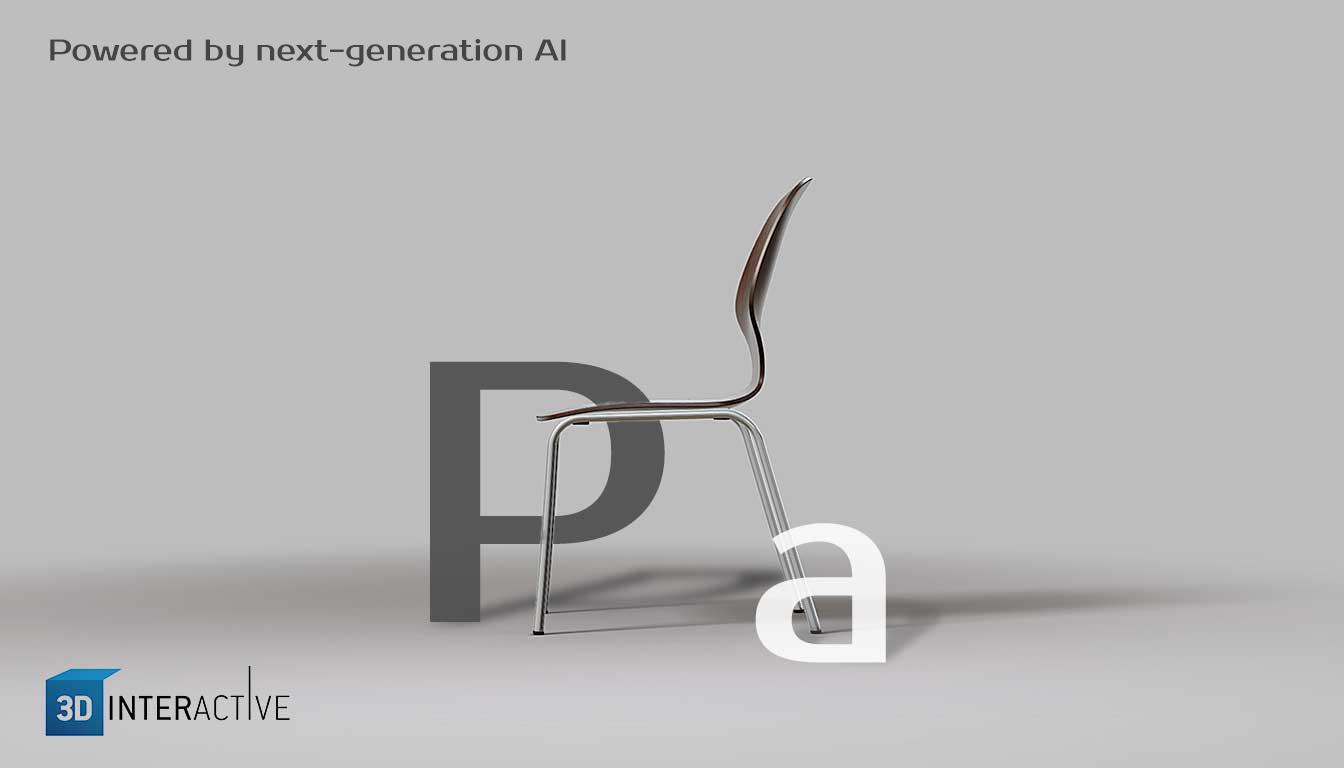
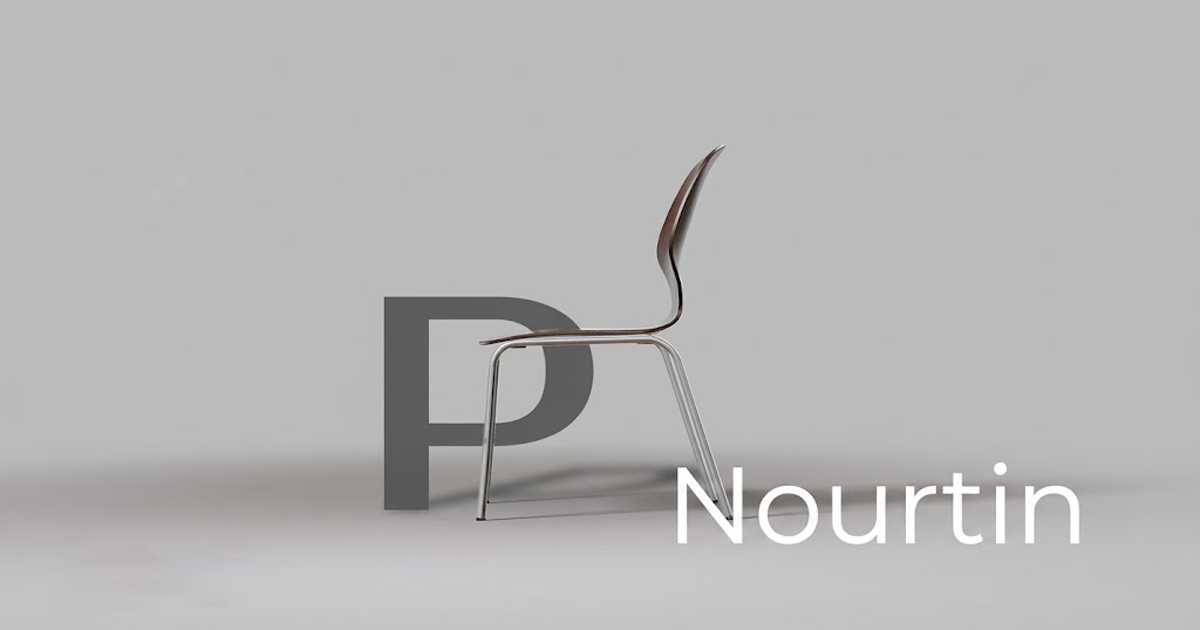
Update case study with new inspection features, recent improvements and Nourtin artwork

diff --git a/README.md b/README.md
@@ -12,7 +12,9 @@ Cinematic real-time 3D product experience built for modern brands — combining 
 ## Key Results
 
 - Cinematic product presentation directly in the browser  
-- Real-time material exploration  
+- Real-time material exploration, including a White Clay inspection mode  
+- On-model width, height, and depth dimensions with interactive product details  
+- Approximately 0.5–0.7 seconds to initial opening in the author's recent measurements; results vary by device and connection  
 - Built-in studio workflow (image & video capture)  
 - AI-powered image generation from live 3D scene  
 - Designed for modern product storytelling and digital marketing  
@@ -35,6 +37,12 @@ A premium product experience that presents objects with cinematic quality instea
 
 Users can explore materials in real time, capture visuals, and create content directly inside the browser without switching tools.
 
+The new White Clay mode presents the entire chair with a neutral finish, making its form easier to inspect. Width, height, and depth appear directly around the model, alongside interactive points that open design views, seat and frame connection details, and an assembly overview.
+
+Dimensions and detail points remain visible while White Clay is selected, even when the material panel is closed. Switching to another finish returns to the material presentation.
+
+Users can also enter and leave a staged room environment to explore the chair in context.
+
 ---
 
 ## AI Workflow
@@ -45,6 +53,8 @@ Users can explore materials in real time, capture visuals, and create content di
 The system allows users to generate new AI-based product visuals directly from the live 3D scene.
 
 This turns a single product setup into multiple creative outputs without leaving the experience.
+
+Recent improvements make generation more predictable, with clearer access feedback and better handling of cancelled, delayed, or failed requests.
 
 ---
 
@@ -61,10 +71,28 @@ The goal is to bring product presentation, interaction, and content creation int
 ## Core Experience
 
 - Cinematic product introduction and camera flow  
-- Real-time material switching  
-- Built-in studio tools for content creation  
+- Real-time material switching without reloading the chair  
+- White Clay inspection with on-model dimensions and interactive detail images  
+- Room entry and exit with smooth visual transitions  
+- Built-in studio tools for screenshots, camera previews, and video recording  
 - AI-powered visual generation  
-- Clean and modern user experience  
+- Improved mobile and landscape layouts, keyboard navigation, and panel focus  
+- Updated Nourtin branding across preview artwork and exported content  
+
+---
+
+## Latest Improvements
+
+- **Faster initial opening:** approximately 0.5–0.7 seconds in recent measurements by the author, with additional scene content loading progressively.
+- **Clearer product inspection:** White Clay mode, visible model dimensions, and interactive design and assembly details.
+- **Smoother navigation:** refined camera handling, room transitions, and controls during studio preview and recording.
+- **More reliable capture:** improved recording cleanup and resizing behavior, with consistent Nourtin branding on images and video.
+- **Better recovery:** clearer Retry and Reload actions when loading or browser graphics initialization fails.
+- **More accessible interaction:** improved keyboard access, focus handling, and controls on narrow and landscape screens.
+- **More reliable AI workflow:** improved cancellation, timeout handling, and feedback.
+- **Maintenance and quality:** removed unused code and obsolete assets, expanded project documentation, and added automated checks before deployment.
+
+These updates describe the latest project work; availability in the live demo depends on deployment.
 
 ---
 
@@ -78,7 +106,7 @@ PureNordStudio demonstrates how real-time 3D can enhance product storytelling, i
 
 ---
 
-## Business Value
+## Potential Business Value
 
 - Faster content production without external tools  
 - Reduced need for repeated photoshoots  
@@ -97,6 +125,6 @@ This approach transforms product presentation from a static display into an inte
 
 ## Scope and measurement notes
 
-This repository contains documentation and screenshots, not the complete application source or licensed assets. Performance figures are snapshots from particular test conditions and are not guarantees across devices, networks, cache states, or scene modes. Initial interaction, startup, and fully loaded time describe different milestones.
+This repository contains documentation and screenshots, not the complete application source or licensed assets. The approximately 0.5–0.7 second opening time is an author-reported observation under particular test conditions, not a cross-device benchmark or a guarantee. Initial opening and full scene loading are different milestones; results vary with device, connection, cache state, and scene mode. Displayed dimensions describe the 3D model and are not verified manufacturer specifications. The business benefits above describe intended use, not measured commercial outcomes.
 
 [Author: Nour Altinawi — Nourtin](https://nourtin.com/)
